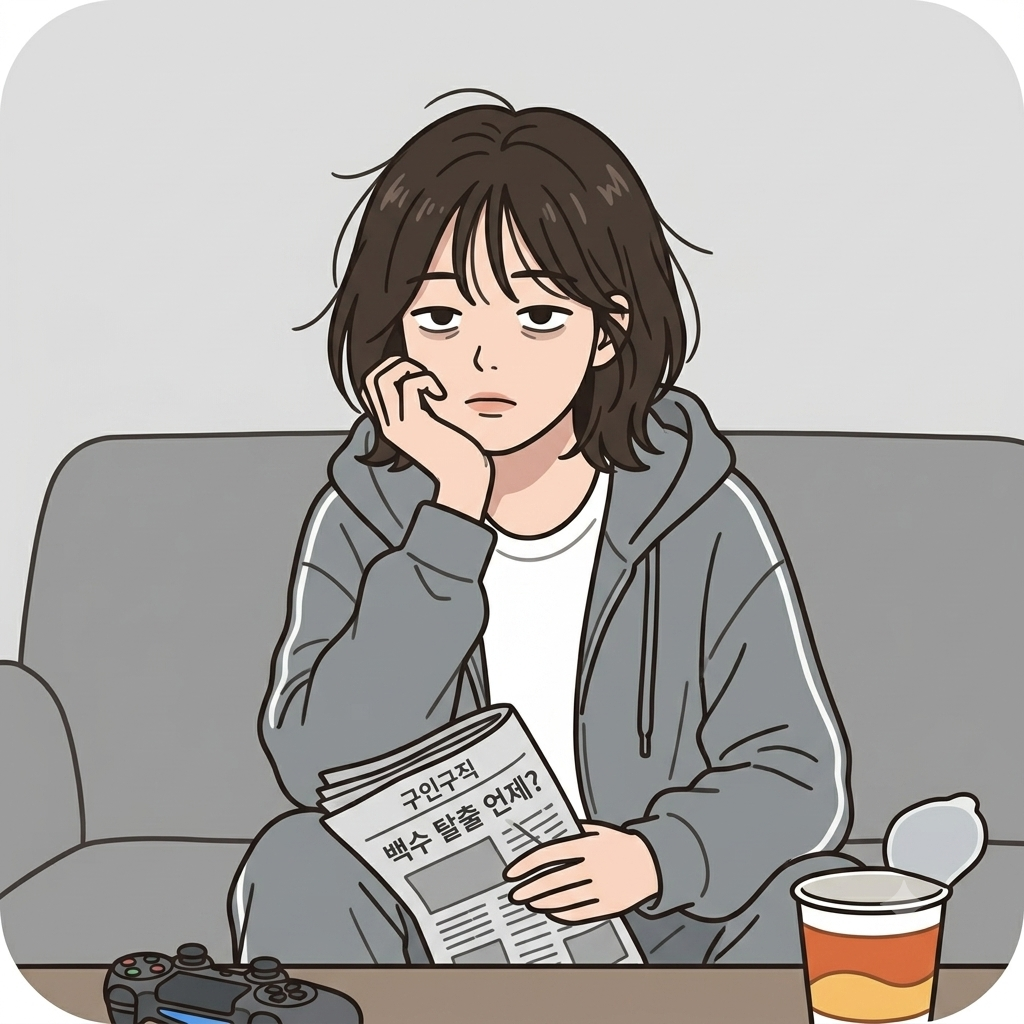
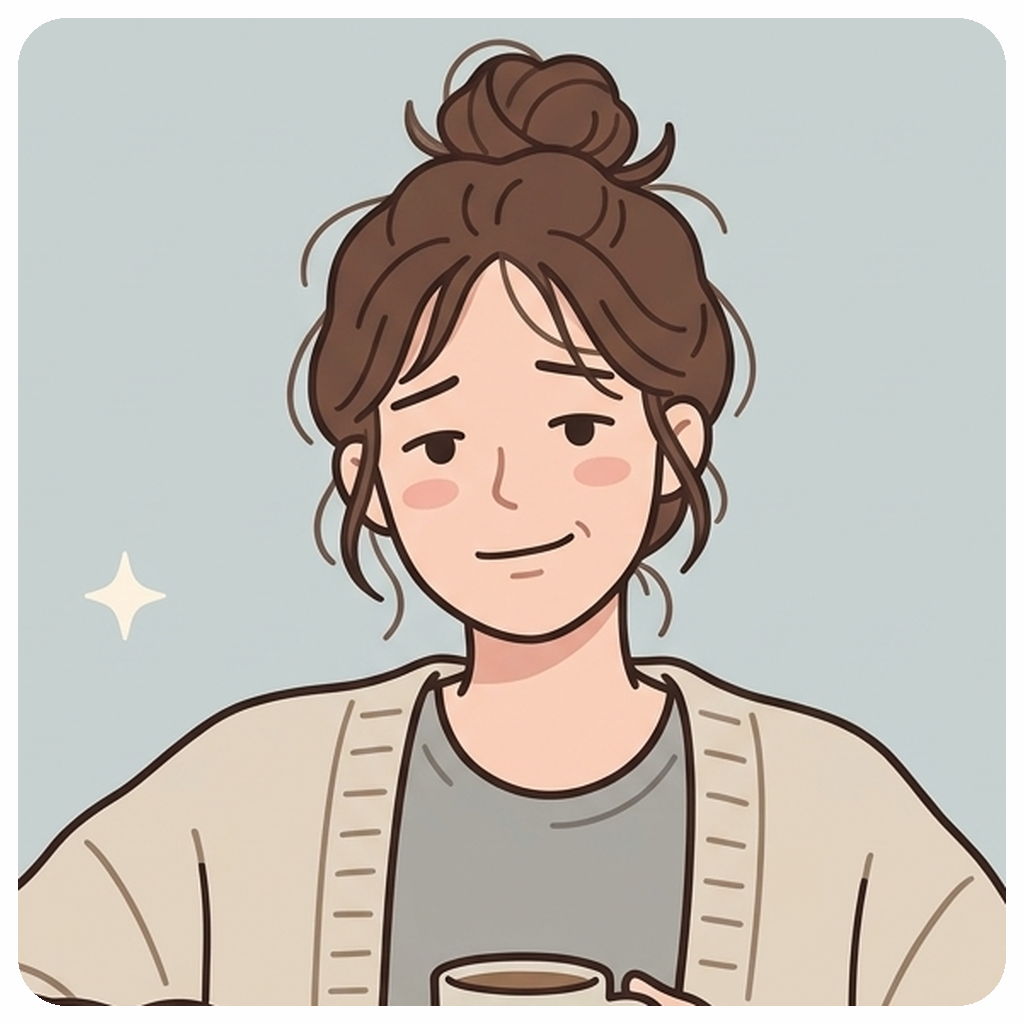
feat: 아바타 추가(호랑이, 용, 군인, 주부), 토끼·취준생 아바타 교체 및 클로즈업

diff --git a/client/src/components/AvatarPicker.tsx b/client/src/components/AvatarPicker.tsx
@@ -25,6 +25,8 @@ const AVATARS = [
       { key: 'f_jobseeker',    label: '여 취준생'  },
       { key: 'm_newcomer',     label: '남 신입사원' },
       { key: 'f_newcomer',     label: '여 신입사원' },
+      { key: 'm_soldier',      label: '남 군인'    },
+      { key: 'f_housewife',    label: '여 주부'    },
       { key: 'm_rapper',       label: '남 래퍼'    },
       { key: 'f_rapper',       label: '여 래퍼'    },
       { key: 'm_chef',         label: '남 셰프'    },
@@ -64,6 +66,8 @@ const AVATARS = [
       { key: 'pig',        label: '돼지'   },
       { key: 'cow',        label: '소'     },
       { key: 'mouse',      label: '쥐'     },
+      { key: 'tiger',      label: '호랑이' },
+      { key: 'dragon',     label: '용'     },
     ],
   },
   {

diff --git a/CLAUDE.md b/CLAUDE.md
@@ -1,0 +1,7 @@
+# 우리가족가계도 (claude.ai 프로젝트: "가계도만들기")
+
+- 사용자와는 항상 한국어로 대화한다. 사용자는 영어를 잘 읽지 못한다.
+- 로컬 저장소 경로: `D:\Project\familytree` (아래 문서의 REPO 경로는 예전 PC 기준이다)
+
+## 프로젝트 상세 정보
+@.claude-context
